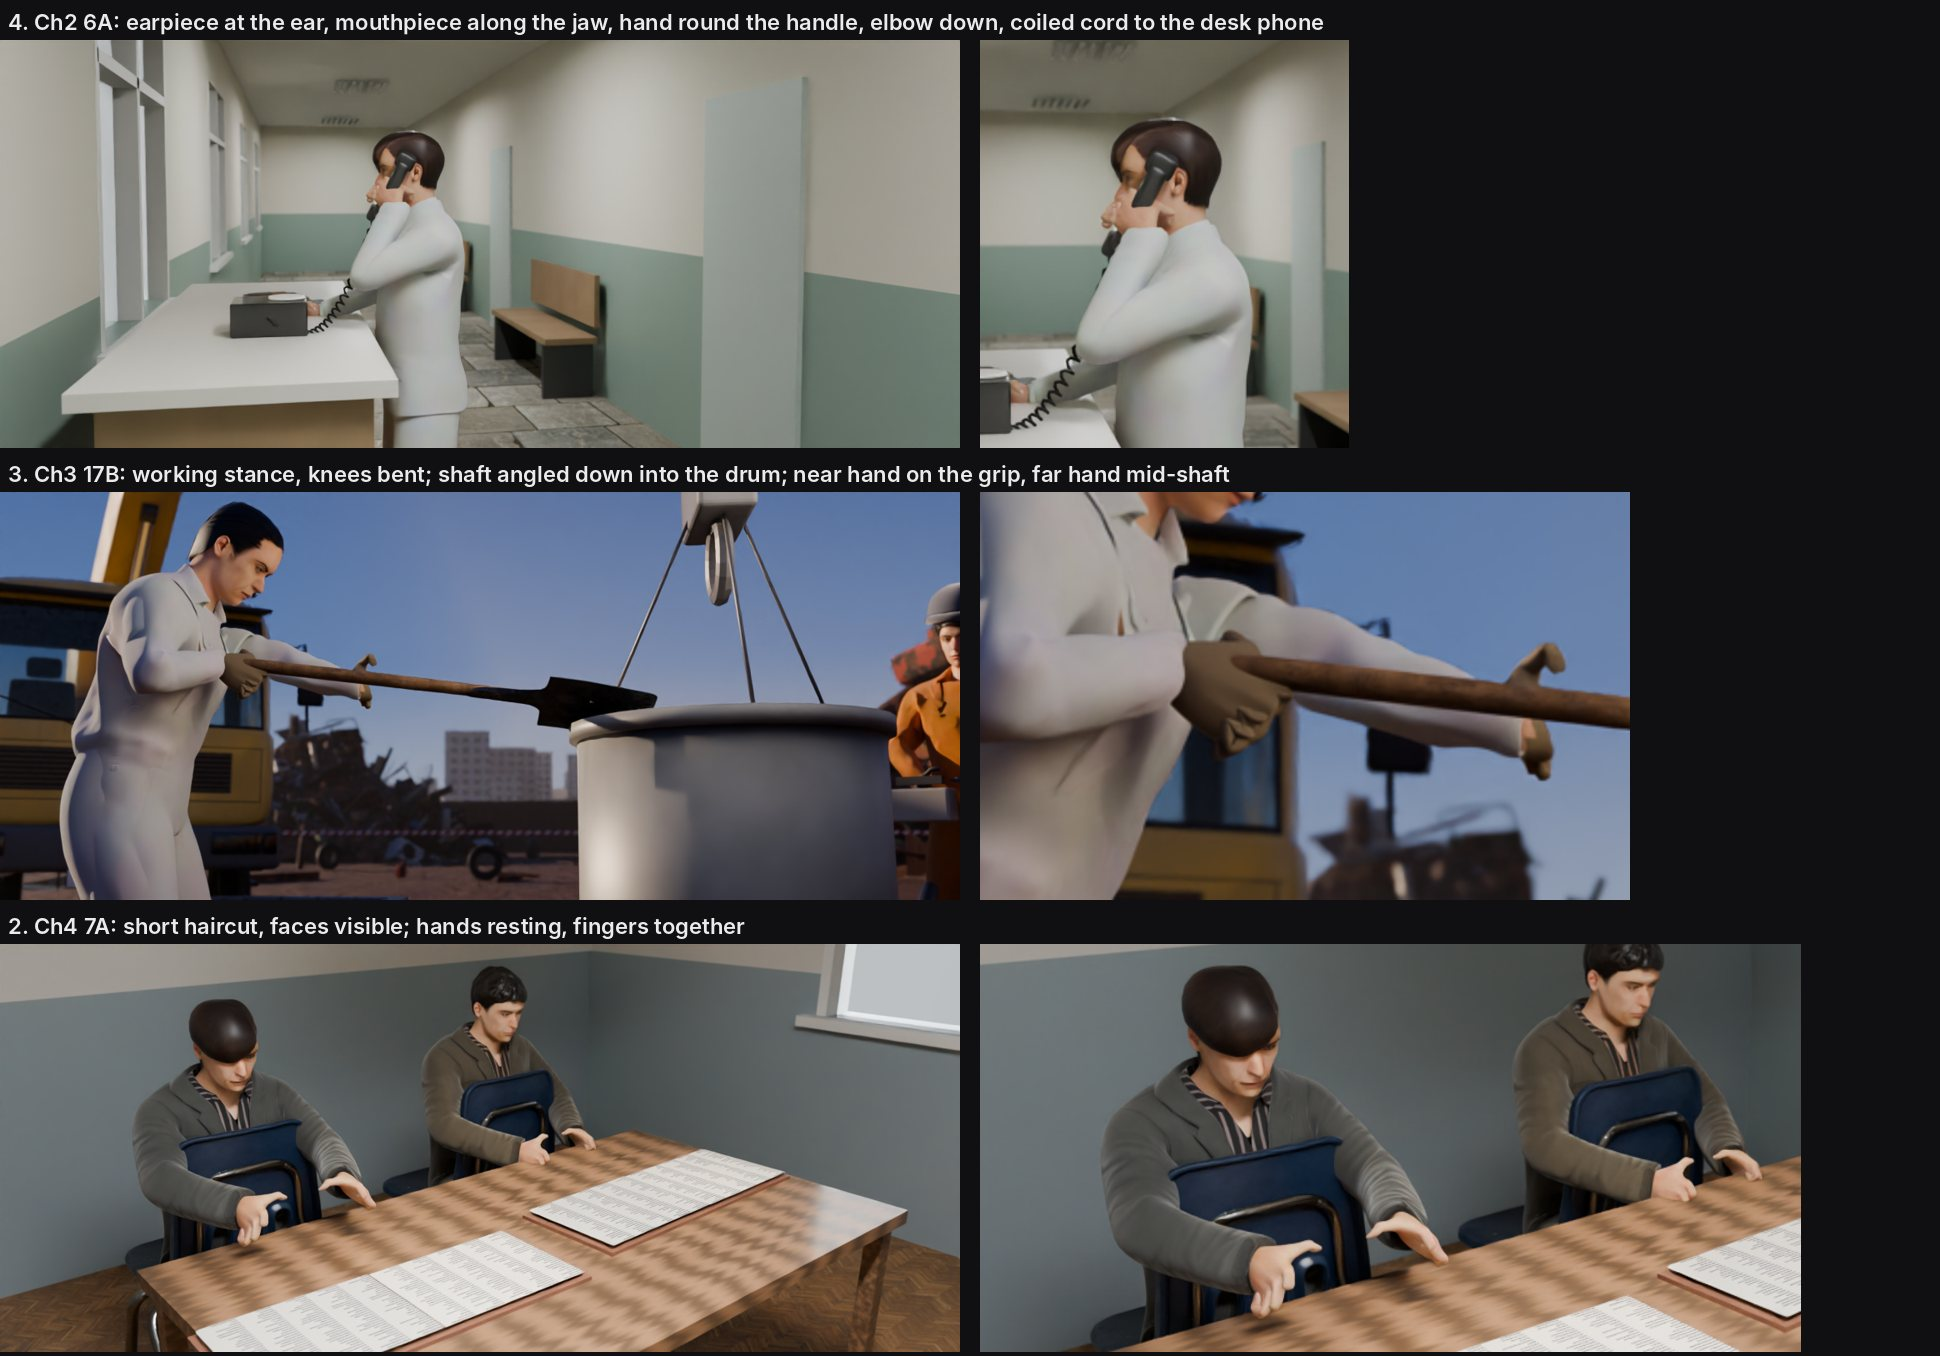
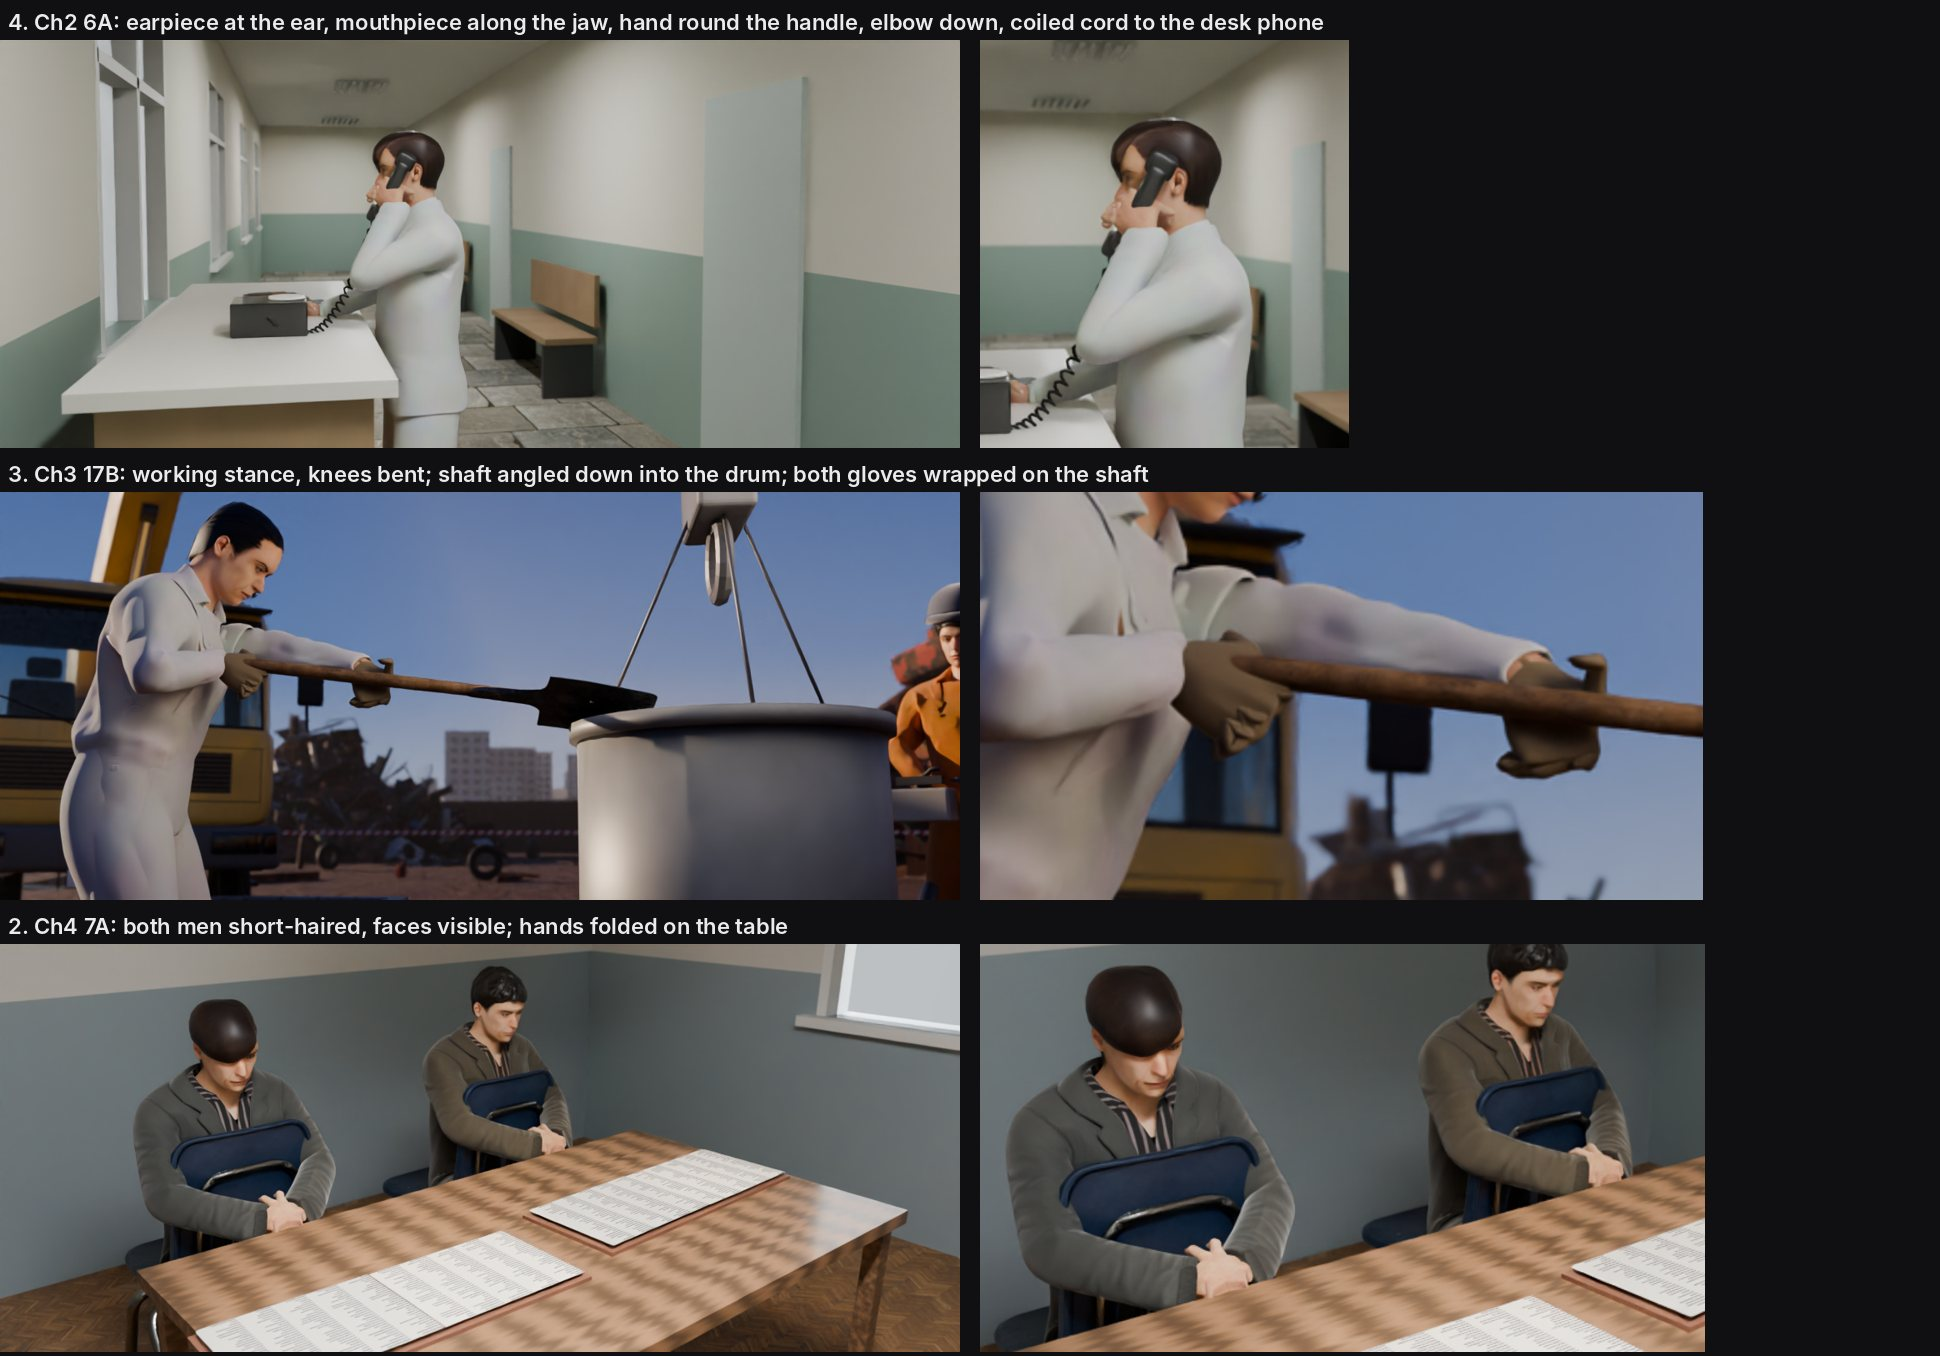
Ch3 17B far hand wraps the shaft; Ch4 7A both investigators' hands folded on the table
Claude-Session: https://claude.ai/code/session_01XfwPSnsBZtudd1AwxSyJSE

diff --git a/projects/radioactive-scrap/scenes/sc_ankara.py b/projects/radioactive-scrap/scenes/sc_ankara.py
@@ -217,14 +217,16 @@ def c4_7a(c, t):           # two investigators lay the two ledgers side by side 
     k = ease(min(1.0, sec / 1.8))
     c["ledB"].location = REC + Vector((0.45 + 0.5 * (1 - k), 0.02 + 0.3 * (1 - k), 0.78))
     sd = forward(b).cross(Vector((0, 0, 1)))
-    edge = c["ledB"].location + Vector((0, -0.2, 0.04))
-    reach(b, "R", edge + sd * 0.12, Vector((sd.x, sd.y, -1.0)), forward(b)); reach(b, "L", edge - sd * 0.12, Vector((-sd.x, -sd.y, -1.0)), forward(b))
-    fingers_curl(b, 55, thumb=30)                        # fingers together, softly curled on the ledger edge
+    sb = sd.normalized(); rb = b.bone_head("spine02") + forward(b) * 0.42; rb.z = 0.8      # b: hands folded too
+    reach(b, "R", rb + sb * 0.06, Vector((sb.x, sb.y, -1.0)), forward(b) * 0.4 - sb * 0.9)
+    reach(b, "L", rb - sb * 0.06, Vector((-sb.x, -sb.y, -1.0)), forward(b) * 0.4 + sb * 0.9)
+    fingers_curl(b, 65, thumb=35)
     sa = forward(a).cross(Vector((0, 0, 1)))             # a: forearms resting on the table, hands flat, fingers together
     rest = a.bone_head("spine02") + forward(a) * 0.42; rest.z = 0.8
-    reach(a, "R", rest + sa * 0.14, Vector((sa.x, sa.y, -1.0)), forward(a) - sa * 0.2)
-    reach(a, "L", rest - sa * 0.14, Vector((-sa.x, -sa.y, -1.0)), forward(a) + sa * 0.2)
-    fingers_curl(a, 40, side=("L", "R"), thumb=25)
+    # hands folded on the table: wrists close, each hand turned in toward the other, fingers curled over
+    reach(a, "R", rest + sa * 0.06, Vector((sa.x, sa.y, -1.0)), forward(a) * 0.4 - sa * 0.9)
+    reach(a, "L", rest - sa * 0.06, Vector((-sa.x, -sa.y, -1.0)), forward(a) * 0.4 + sa * 0.9)
+    fingers_curl(a, 65, side=("L", "R"), thumb=35)
     a.rot("head", forward(a).cross(Vector((0, 0, 1))), 8); b.rot("head", sd, 6)        # heads up: faces, not crowns
 
 

diff --git a/projects/radioactive-scrap/scenes/sc_scrapyard.py b/projects/radioactive-scrap/scenes/sc_scrapyard.py
@@ -663,7 +663,10 @@ def anim_drop(c, t):
     # near (right) hand in the D-grip, knuckles along the shaft; far (left) hand under the shaft, mid-way
     _reach_raw(h2, "R", grip + ax * 0.05, Vector((side.x, side.y, -0.8)), ax + Vector((0, 0, -0.2)))
     mid = grip + ax * 0.5
-    _reach_raw(h2, "L", mid + Vector((0, 0, -0.04)), Vector((-side.x * 0.5, -side.y * 0.5, -1.0)), -across + Vector((0, 0, 0.3)))
+    up_ = across.cross(ax).normalized()                      # shaft-normal pointing up
+    if up_.z < 0: up_ = -up_
+    # overhand grip mid-shaft: wrist just above and behind the shaft, knuckles curling over and around it
+    _reach_raw(h2, "L", mid + up_ * 0.035 - ax * 0.05, Vector((-side.x * 0.5, -side.y * 0.5, -1.0)), ax * 0.6 - up_ * 0.8)
     fingers_curl(h2, 95, thumb=70)
     sp = c["spade"]
     if sp is not None:
